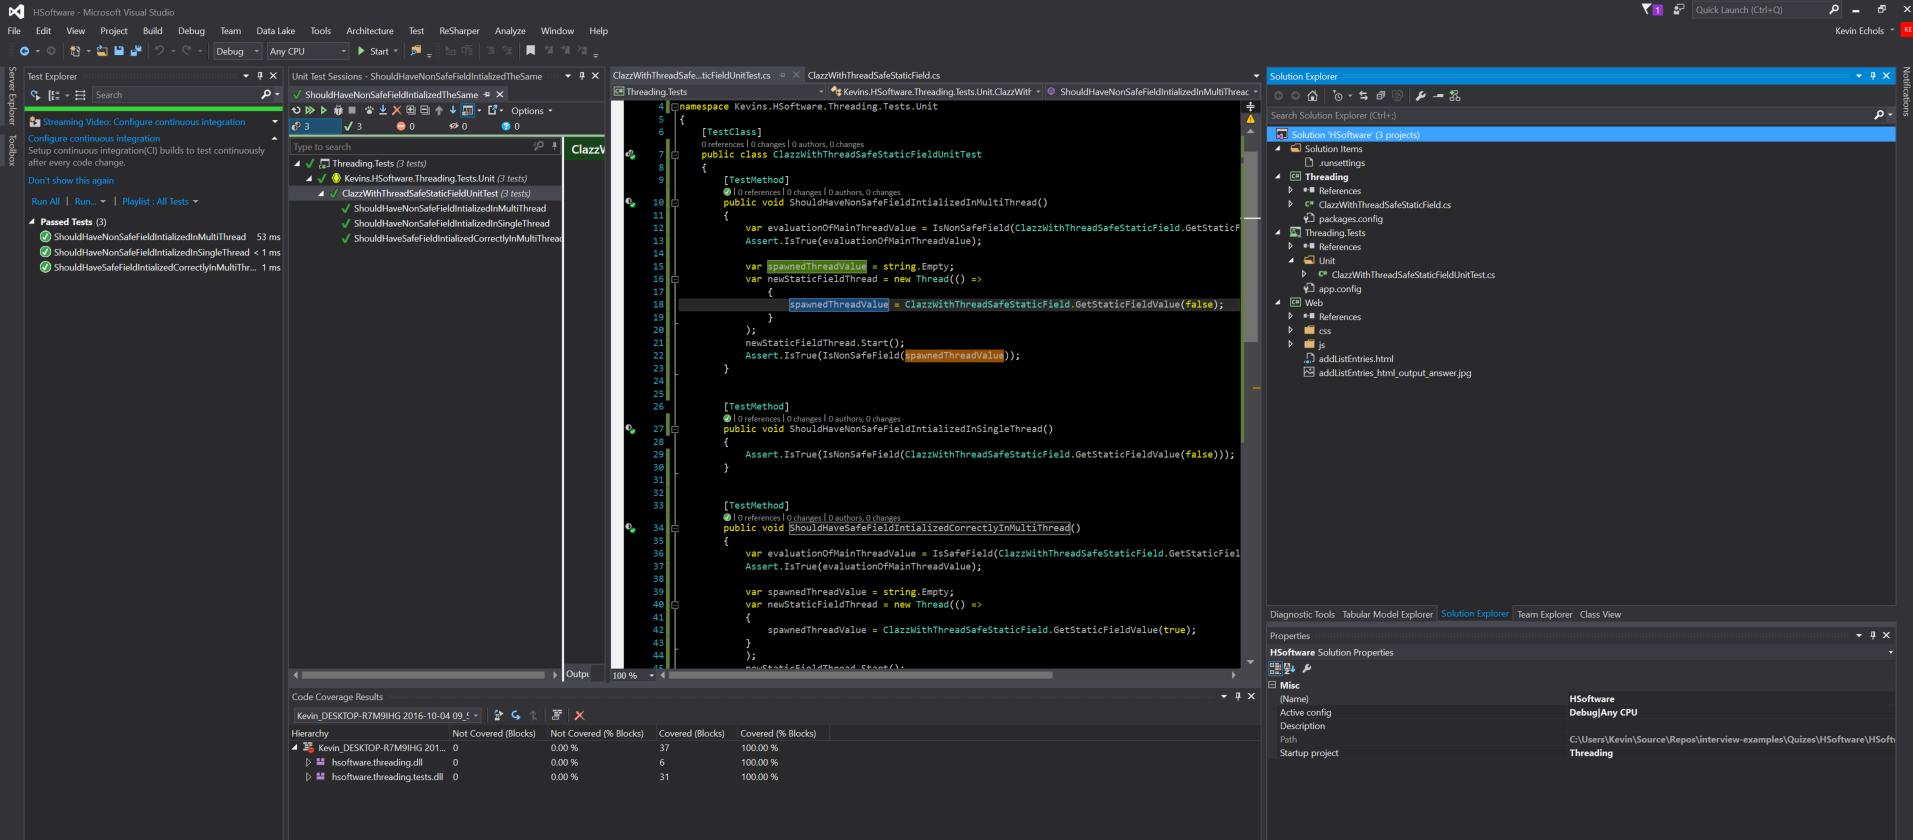
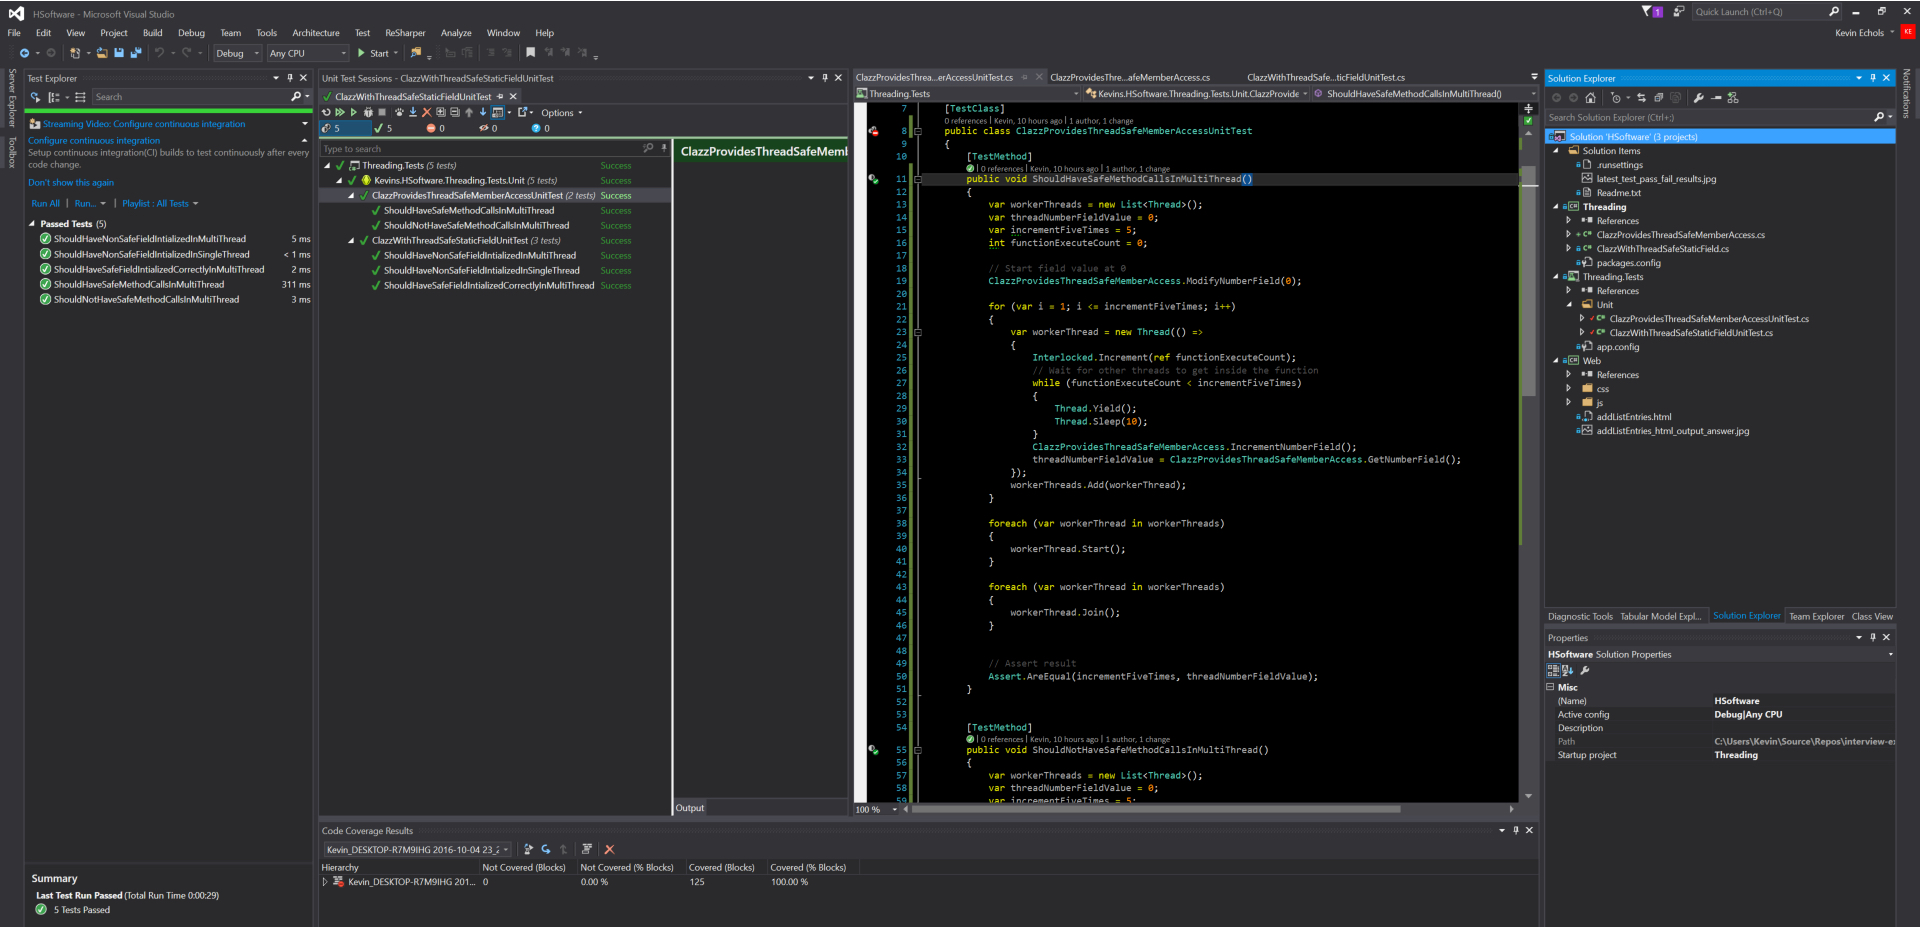
Refactored and made the SafeMethodCallsInMultiThread unit test more reliable

diff --git a/PhoneInterviews/HSoftware/Threading.Tests/Unit/ClazzProvidesThreadSafeMemberAccessUnitTest.cs b/PhoneInterviews/HSoftware/Threading.Tests/Unit/ClazzProvidesThreadSafeMemberAccessUnitTest.cs
@@ -1,4 +1,3 @@
-using System;
 using System.Collections.Generic;
 using System.Threading;
 using Microsoft.VisualStudio.TestTools.UnitTesting;
@@ -13,21 +12,32 @@ namespace Kevins.HSoftware.Threading.Tests.Unit
         {
             var workerThreads = new List<Thread>();
             var threadNumberFieldValue = 0;
-            var valueAfterIncrementingFiveTimes = 5;
+            var incrementFiveTimes = 5;
+            int functionExecuteCount = 0;
 
             // Start field value at 0
             ClazzProvidesThreadSafeMemberAccess.ModifyNumberField(0);
 
-            for (var i = 1; i <= 5; i++)
+            for (var i = 1; i <= incrementFiveTimes; i++)
             {
                 var workerThread = new Thread(() =>
                 {
-                    RandomWait();
+                    Interlocked.Increment(ref functionExecuteCount);
+                    // Wait for other threads to get inside the function
+                    while (functionExecuteCount < incrementFiveTimes)
+                    {
+                        Thread.Yield();
+                        Thread.Sleep(10);
+                    }
                     ClazzProvidesThreadSafeMemberAccess.IncrementNumberField();
                     threadNumberFieldValue = ClazzProvidesThreadSafeMemberAccess.GetNumberField();
                 });
-                workerThread.Start();
                 workerThreads.Add(workerThread);
+            }
+
+            foreach (var workerThread in workerThreads)
+            {
+                workerThread.Start();
             }
 
             foreach (var workerThread in workerThreads)
@@ -35,8 +45,9 @@ namespace Kevins.HSoftware.Threading.Tests.Unit
                 workerThread.Join();
             }
             
+
             // Assert result
-            Assert.AreEqual(valueAfterIncrementingFiveTimes, threadNumberFieldValue);
+            Assert.AreEqual(incrementFiveTimes, threadNumberFieldValue);
         }
 
 
@@ -45,38 +56,37 @@ namespace Kevins.HSoftware.Threading.Tests.Unit
         {
             var workerThreads = new List<Thread>();
             var threadNumberFieldValue = 0;
-            var valueAfterIncrementingFiveTimes = 5;
+            var incrementFiveTimes = 5;
+            int functionExecuteCount = 0;
 
             // Start field value at 0
             ClazzProvidesThreadSafeMemberAccess.ModifyNumberField(0, false);
 
-            for (var i = 1; i <= 5; i++)
+            for (var i = 1; i <= incrementFiveTimes; i++)
             {
                 var workerThread = new Thread(() =>
                 {
-                    RandomWait();
+                    Interlocked.Increment(ref functionExecuteCount);
+                    // Wait for other threads to get inside the function
+                    while (functionExecuteCount < incrementFiveTimes)
+                    {
+                        Thread.Yield();
+                        Thread.Sleep(10);
+                    }
                     ClazzProvidesThreadSafeMemberAccess.IncrementNumberField(false);
                     threadNumberFieldValue = ClazzProvidesThreadSafeMemberAccess.GetNumberField(false);
                 });
-                workerThread.Start();
                 workerThreads.Add(workerThread);
             }
 
-
             foreach (var workerThread in workerThreads)
             {
-                workerThread.Join();
+                workerThread.Start();
             }
 
+
             // Assert result
-            Assert.AreNotEqual(valueAfterIncrementingFiveTimes, threadNumberFieldValue);
-        }
-
-
-        private void RandomWait()
-        {
-            var randomizer = new Random();
-            Thread.Sleep(randomizer.Next(50, 100));
+            Assert.AreNotEqual(incrementFiveTimes, threadNumberFieldValue);
         }
     }
 }

diff --git a/PhoneInterviews/HSoftware/Threading.Tests/Unit/ClazzWithThreadSafeStaticFieldUnitTest.cs b/PhoneInterviews/HSoftware/Threading.Tests/Unit/ClazzWithThreadSafeStaticFieldUnitTest.cs
@@ -61,7 +61,4 @@ namespace Kevins.HSoftware.Threading.Tests.Unit
             return !IsNonSafeField(value);
         }
     }
-
-
-  
 }
